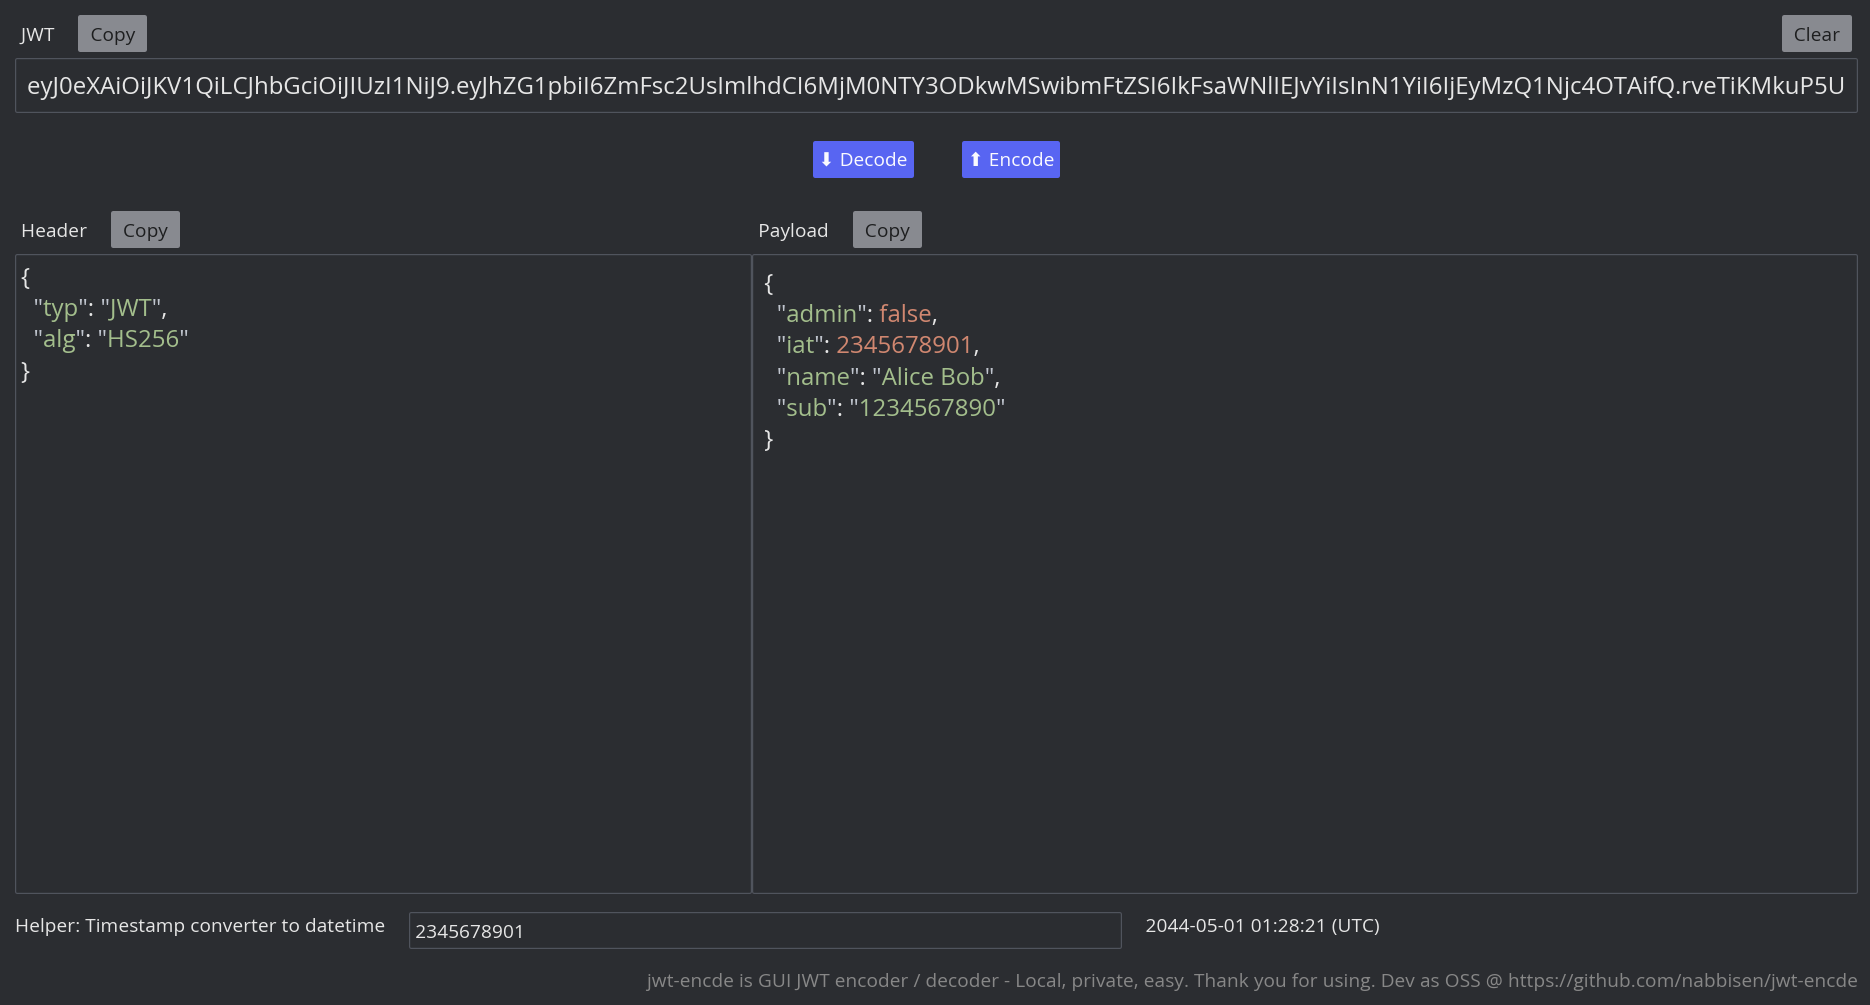
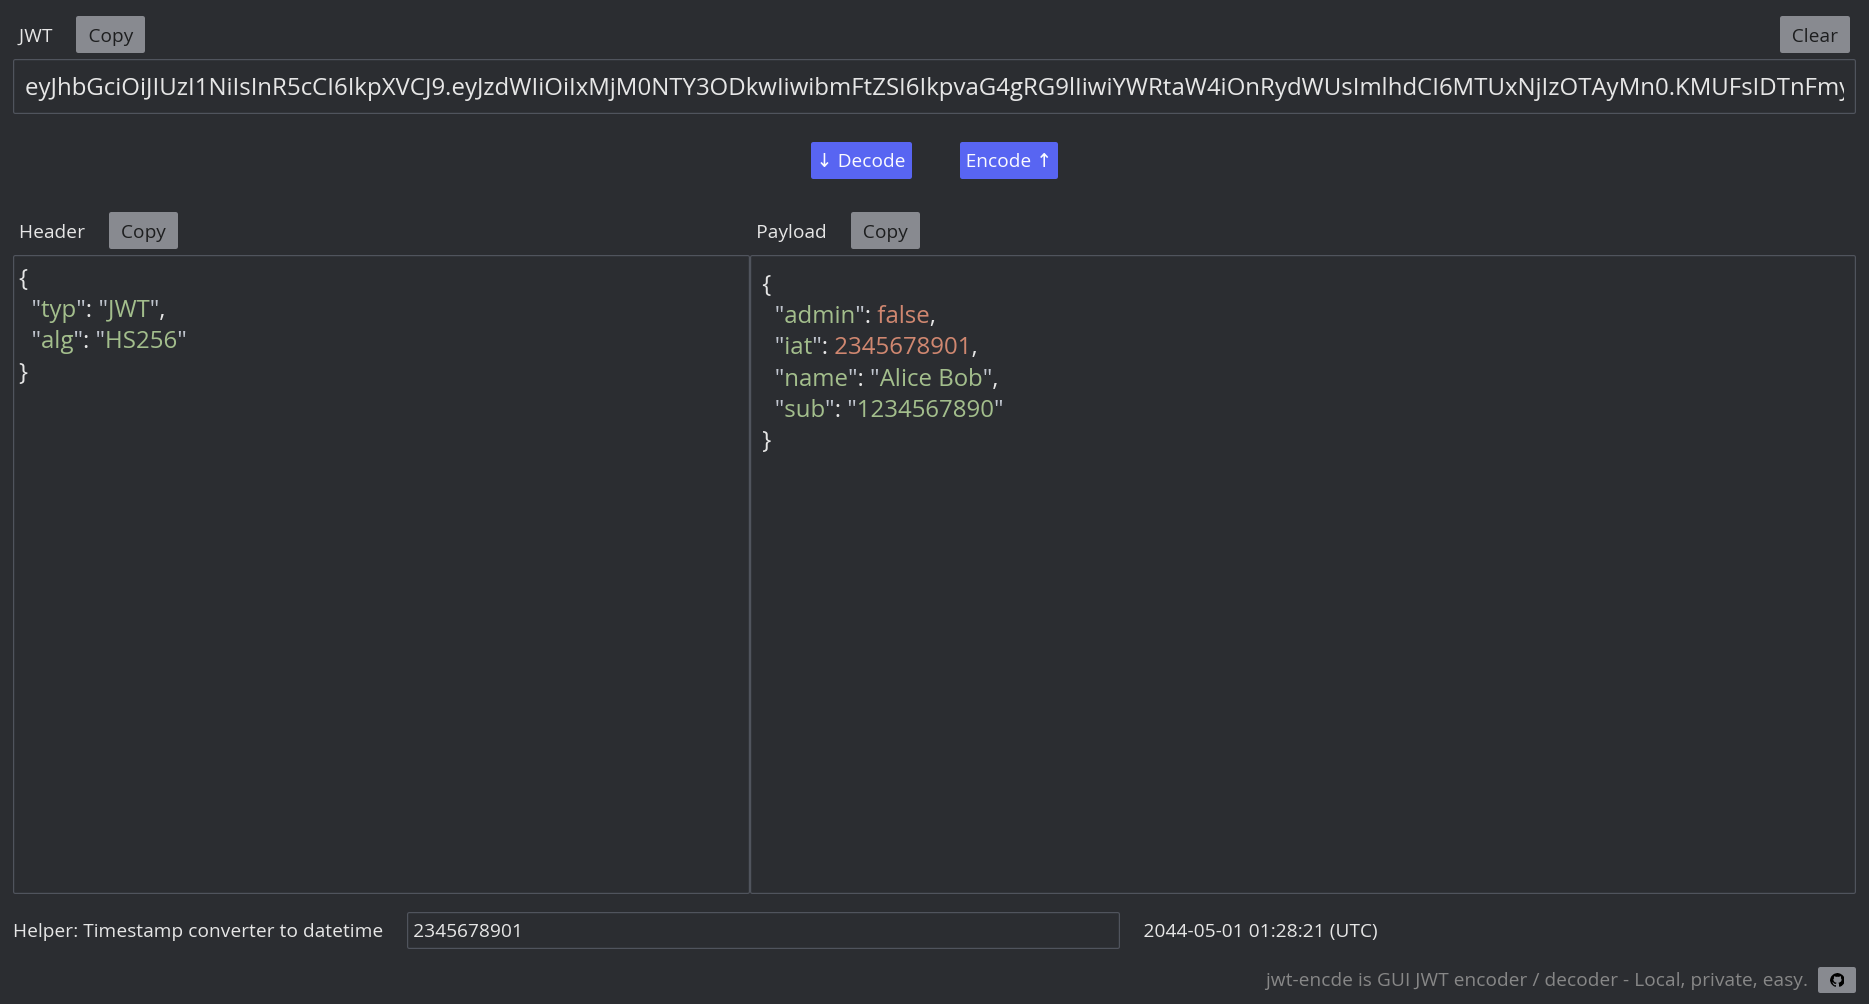
arrow symbols; pkg update; latest screenshot

diff --git a/src/app/window.rs b/src/app/window.rs
@@ -70,14 +70,14 @@ impl Window {
 
         let buttons = container(
             row![
-                button("⬇ Decode")
+                button("↓ Decode")
                     .padding(5)
                     .on_press_maybe(if !self.jwt_str.is_empty() {
                         Some(Message::Decode)
                     } else {
                         None
                     }),
-                button("⬆ Encode").padding(5).on_press_maybe(
+                button("Encode ↑").padding(5).on_press_maybe(
                     if !self.jwt_header_json_str.is_empty() || !self.jwt_payload_json_str.is_empty()
                     {
                         Some(Message::Encode)
